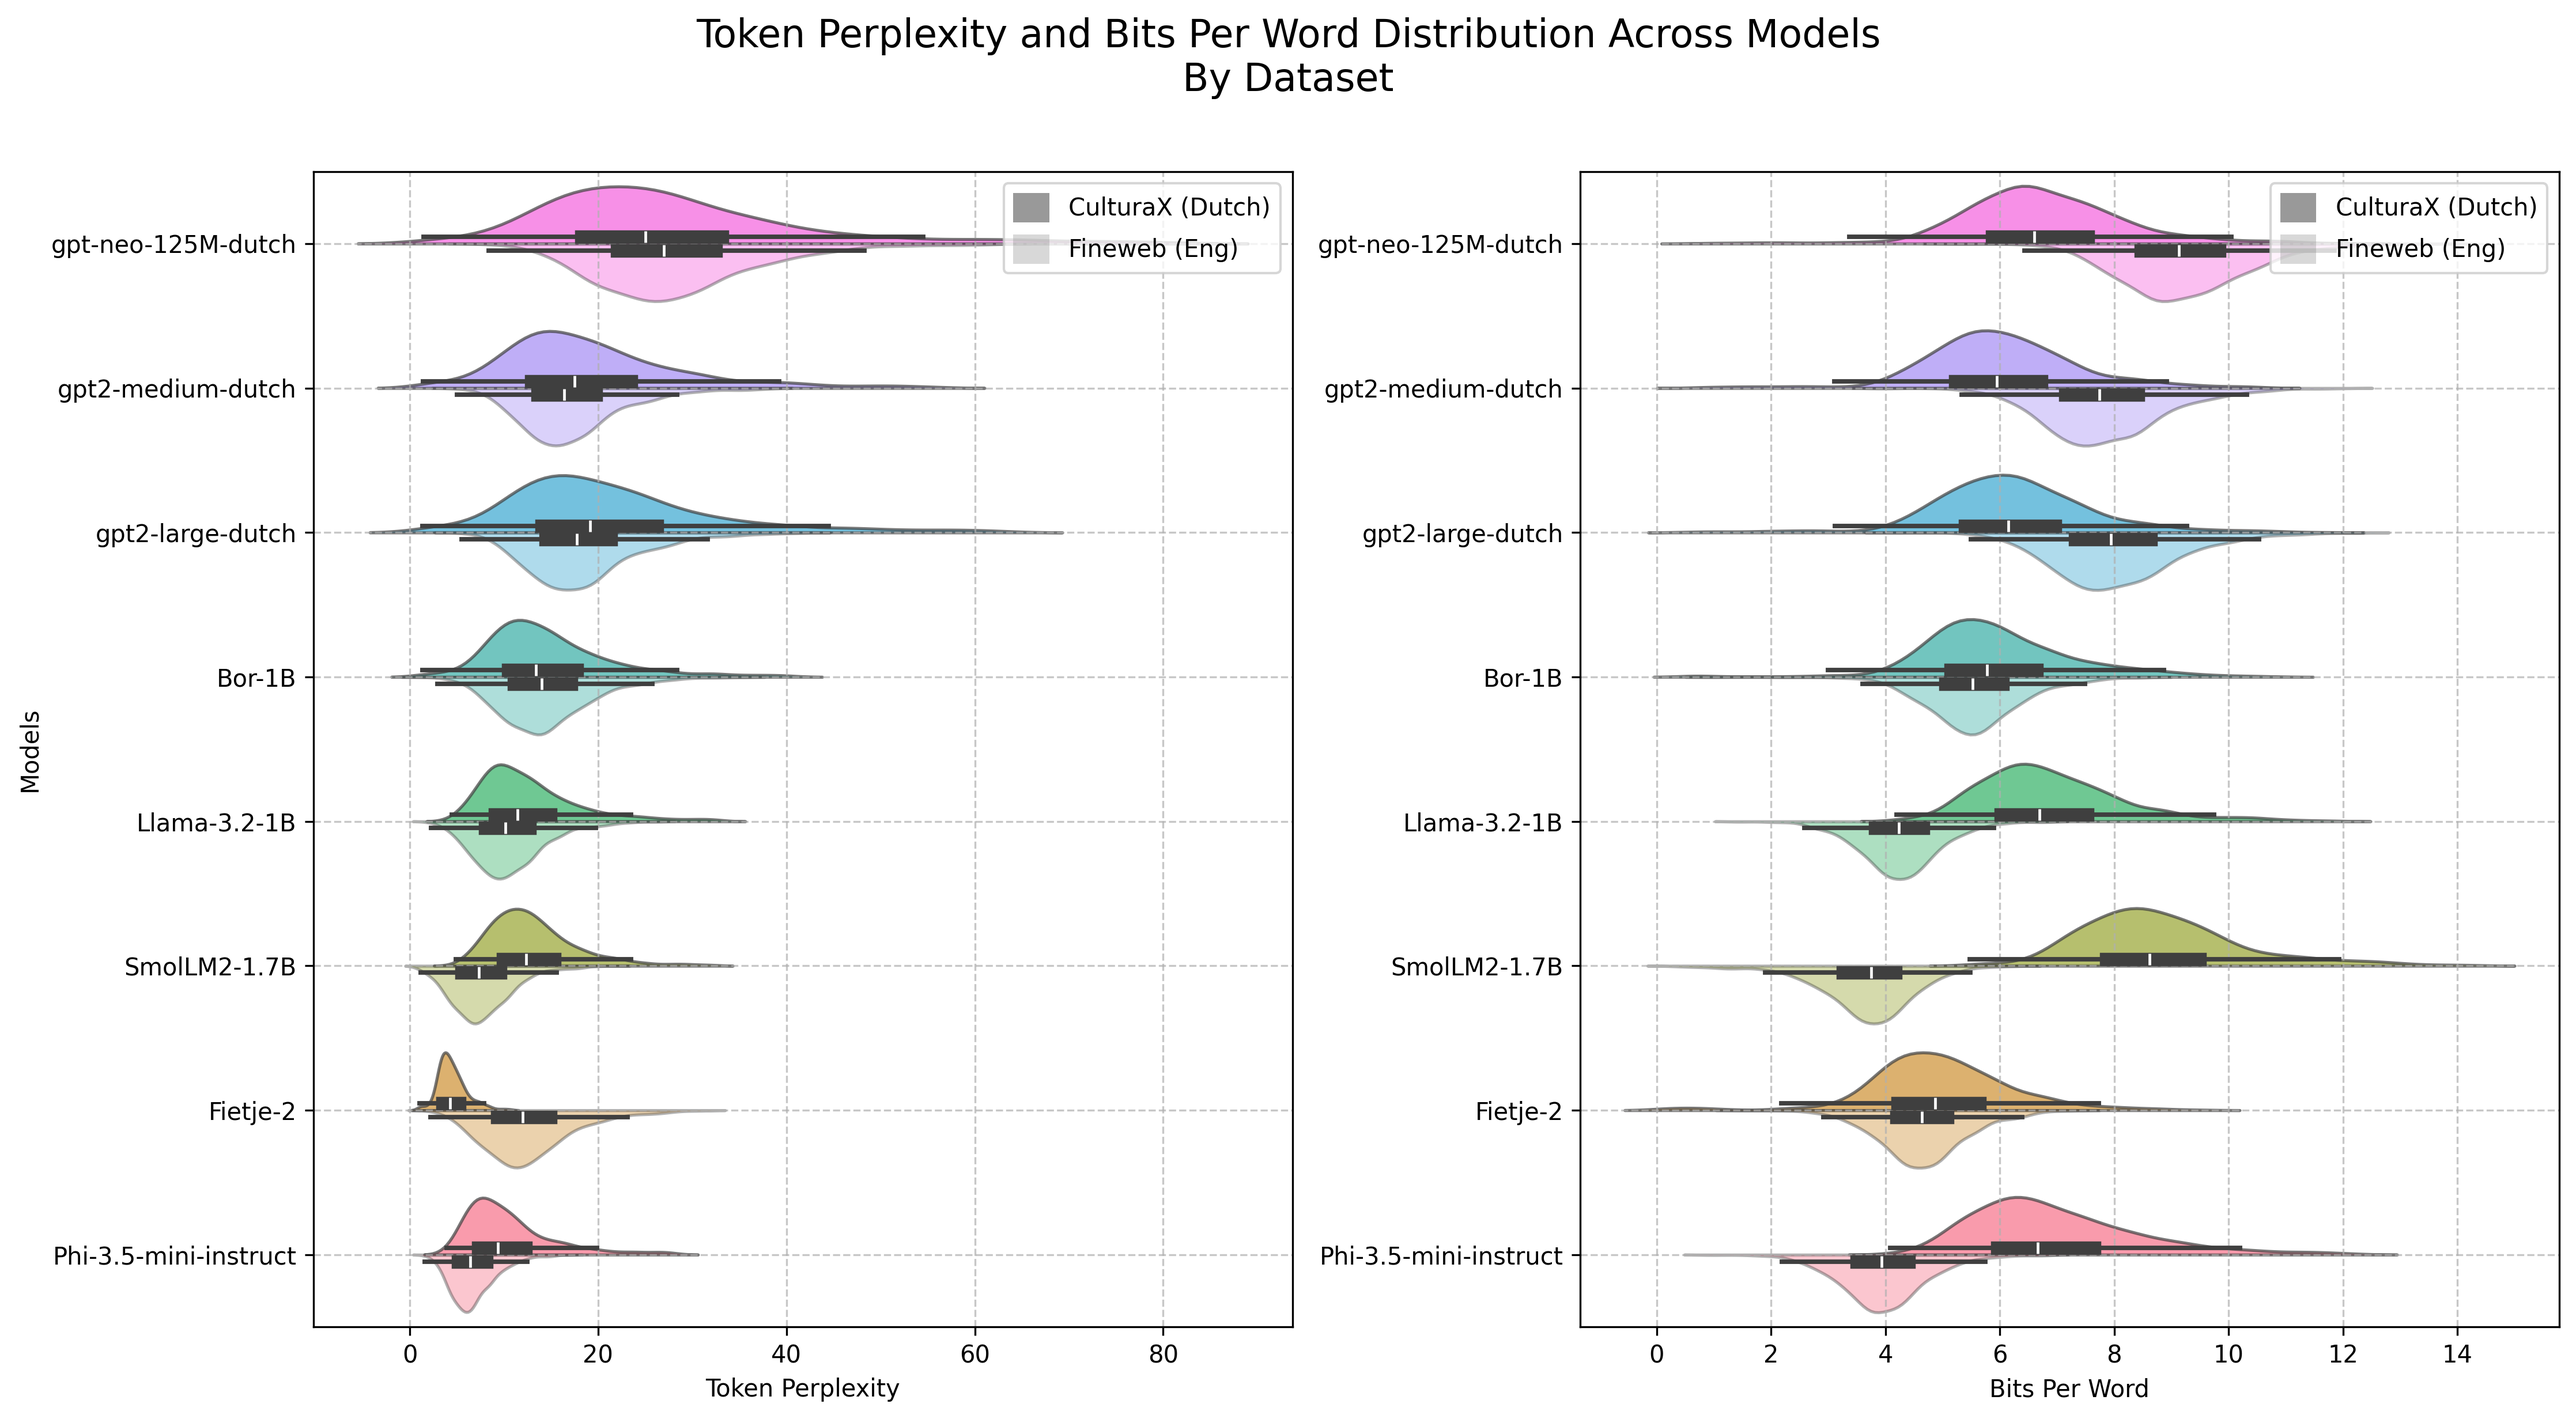
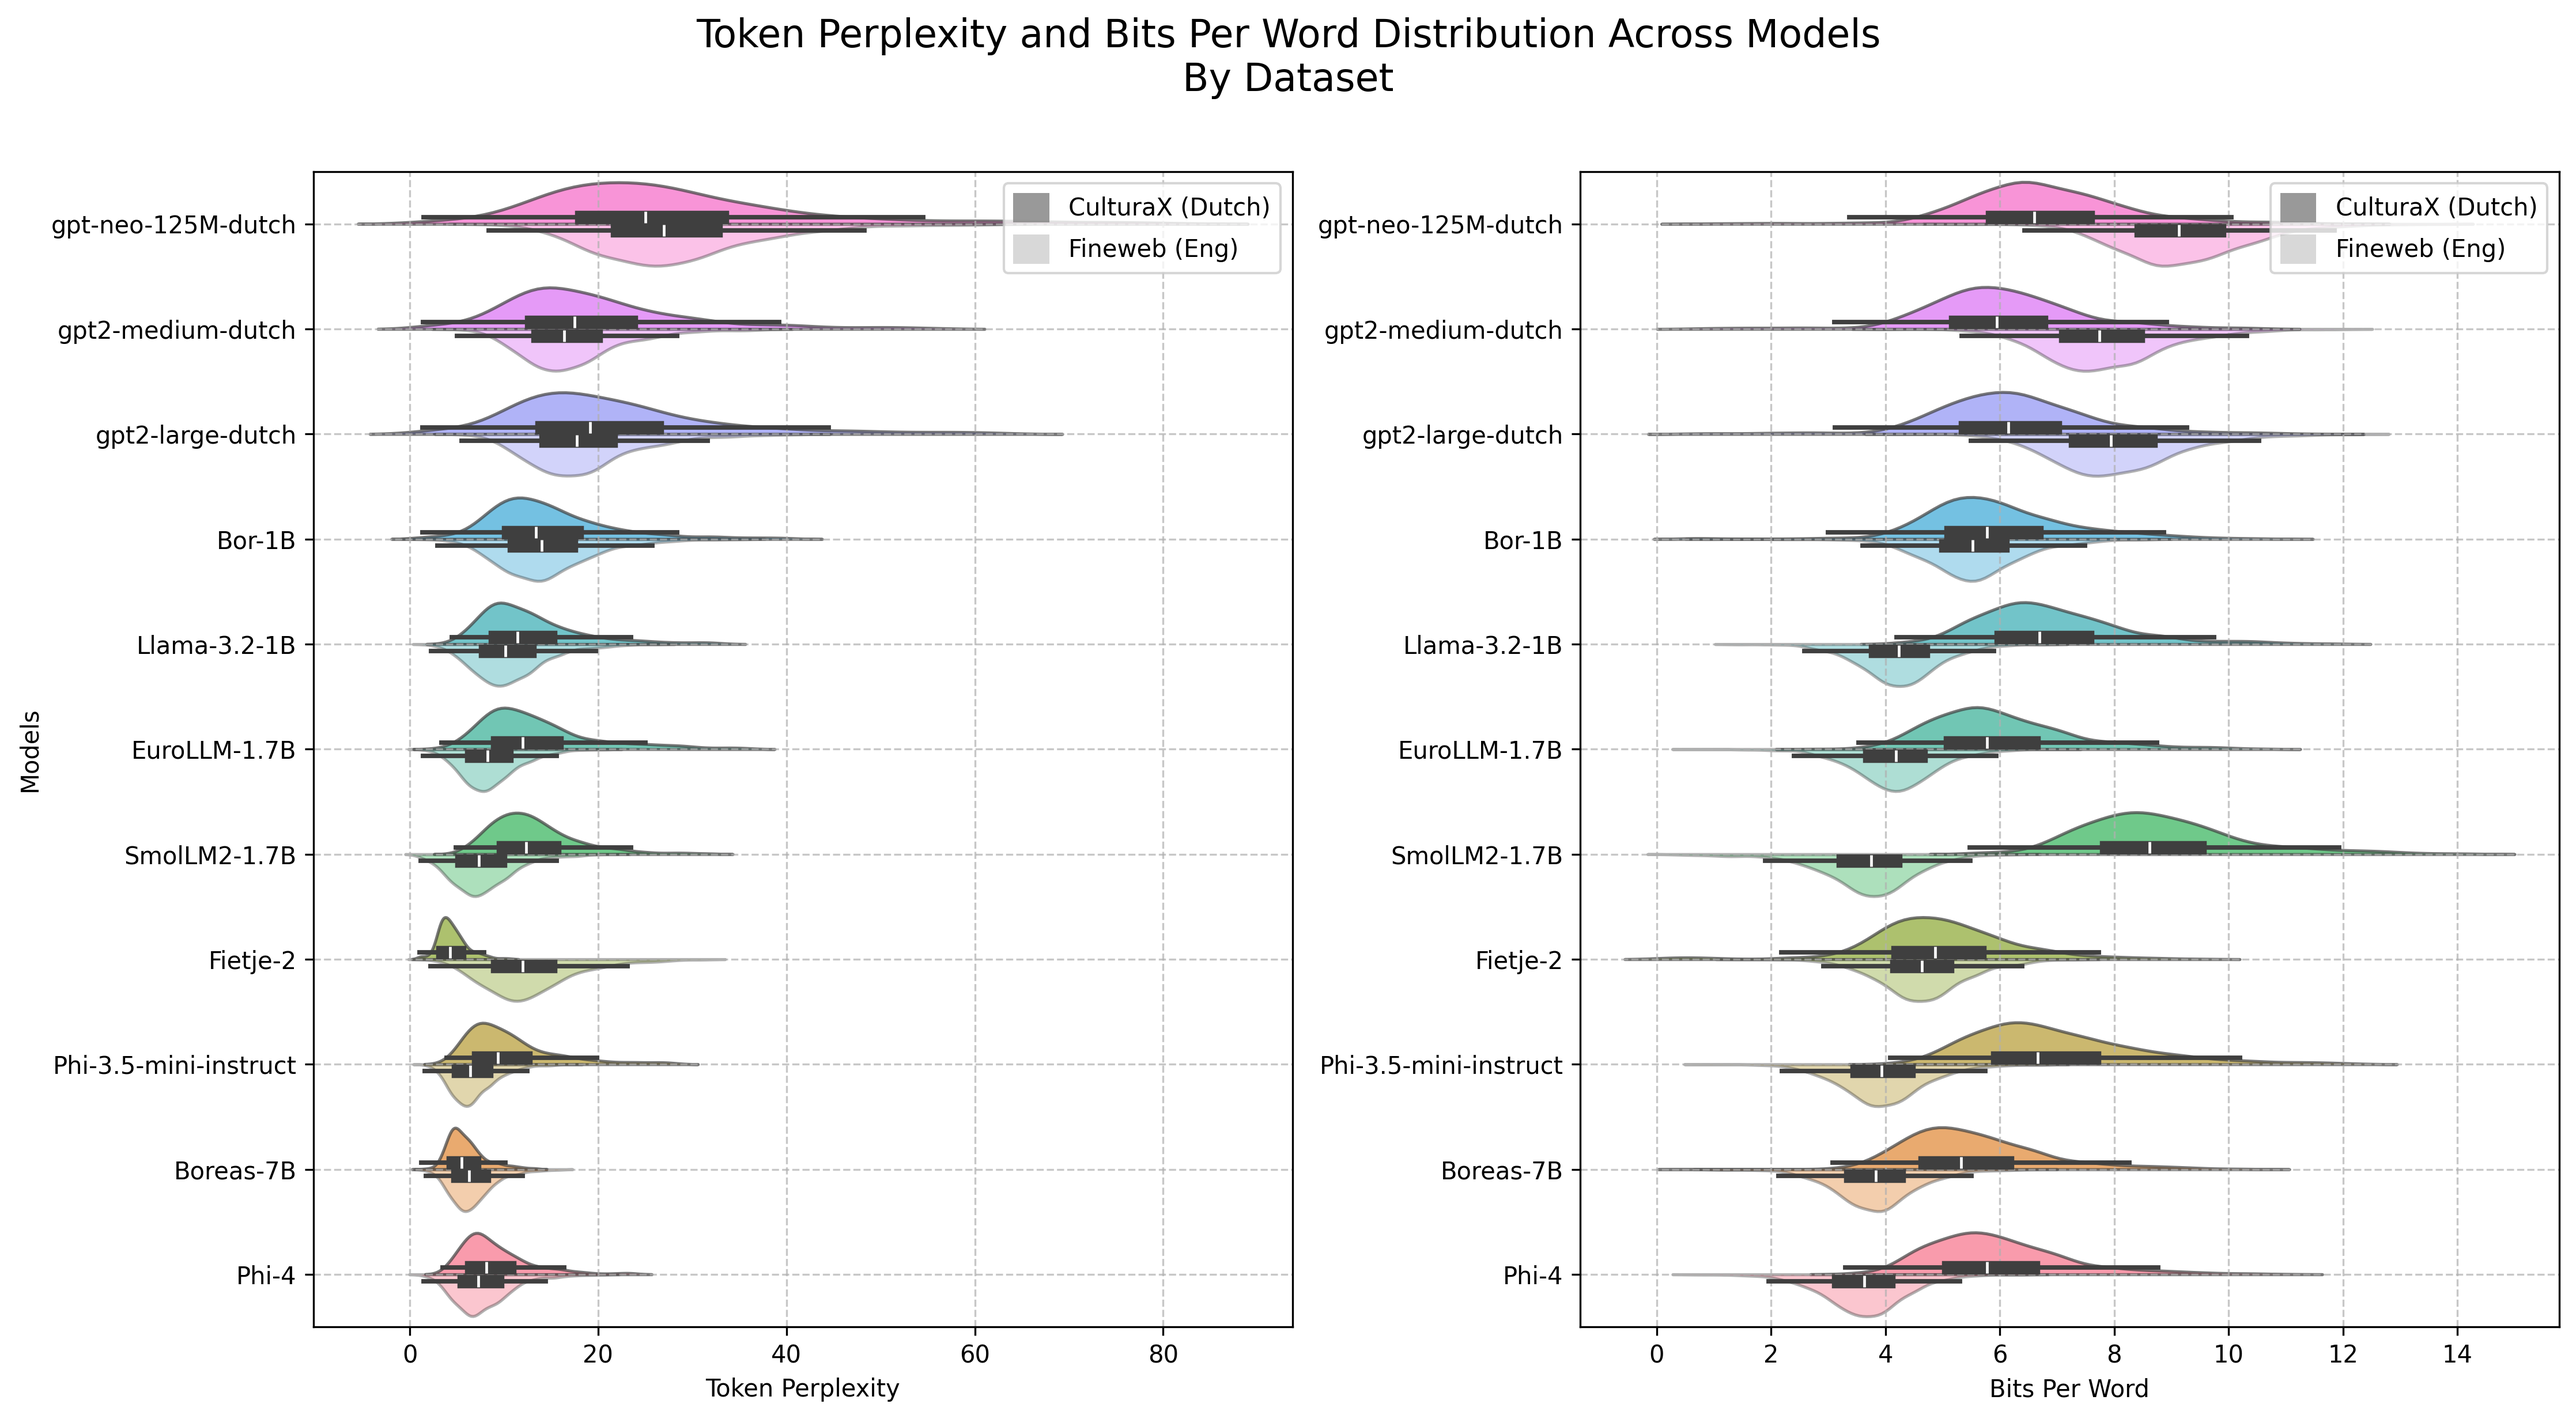
Add more models to entropy metric evaluation

diff --git a/src/evaluation_results_to_markdown.py b/src/evaluation_results_to_markdown.py
@@ -11,9 +11,12 @@ MODEL_PARAMS = {
     "Bor-1B": 1_190_000_000,
     "Llama-3.2-1B": 1_240_000_000,
     "gpt-neo-1.3B-dutch": 1_420_000_000,
+    "EuroLLM-1.7B": 1_660_000_000,
     "SmolLM2-1.7B": 1_710_000_000,
     "Fietje-2": 2_700_000_000,
     "Phi-3.5-mini-instruct": 3_800_000_000,
+    "Boreas-7B": 7_240_000_000,
+    "Phi-4": 14_700_000_000,
 }
 
 MODEL_LANGUAGE = {
@@ -24,8 +27,11 @@ MODEL_LANGUAGE = {
     "Bor-1B": "🇳🇱🇬🇧",  # Dutch + English
     "Llama-3.2-1B": "🌐",  # Multilingual
     "SmolLM2-1.7B": "🇬🇧",  # English
-    "Fietje-2": "🇳🇱*",  # Dutch-tuned Phi
+    "Fietje-2": "🇬🇧🇳🇱*",  # English then Dutch-tuned Phi-2
     "Phi-3.5-mini-instruct": "🌐",  # Multilingual
+    "Boreas-7B": "🌐🇳🇱",  # Multilingual (no Dutch) then Dutch/English Mistral
+    "Phi-4": "🇬🇧",  # English
+    "EuroLLM-1.7B": "🌐",  # Multilingual including Dutch
 }
 
 MODEL_CONTEXT_LENGTH = {
@@ -38,6 +44,9 @@ MODEL_CONTEXT_LENGTH = {
     "SmolLM2-1.7B": 8192,
     "Fietje-2": 2048,
     "Phi-3.5-mini-instruct": 128_000,
+    "Boreas-7B": 2048,
+    "Phi-4": 16384,
+    "EuroLLM-1.7B": 4096,
 }
 
 

diff --git a/src/evaluate_entropy_metrics.py b/src/evaluate_entropy_metrics.py
@@ -273,6 +273,18 @@ def main(debug=False):
                 "path": "HuggingFaceTB/SmolLM2-1.7B",
                 "context_length": 4096,
             },
+            "EuroLLM-1.7B": {
+                "path": "utter-project/EuroLLM-1.7B",
+                "context_length": 4096,
+            },
+            "Phi-4": {
+                "path": "microsoft/phi-4",
+                "context_length": 4096,
+            },
+            "Boreas-7B": {
+                "path": "yhavinga/Boreas-7B",
+                "context_length": 2048,
+            },
         }
 
     model_kwargs = {

diff --git a/src/visualize_perplexity.py b/src/visualize_perplexity.py
@@ -92,9 +92,12 @@ def create_perplexity_distribution_plot(results_dict, output_dir):
         "Bor-1B",
         "Llama-3.2-1B",
         # "gpt-neo-1.3B-dutch",
+        "EuroLLM-1.7B",
         "SmolLM2-1.7B",
         "Fietje-2",
         "Phi-3.5-mini-instruct",
+        "Boreas-7B",
+        "Phi-4",
     ]
 
     # Create figure
